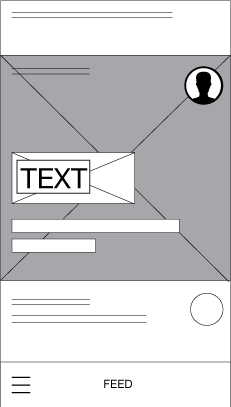
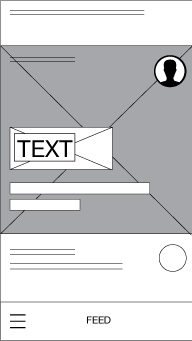
[Working] transition

diff --git a/app/views/workspace.html b/app/views/workspace.html
@@ -29,9 +29,7 @@
 		<div class="navbar navbar-inverse navbar-static-top" style="height:78px;">
 			<div class="container">
 				<div class="navbar-header">
-					<a href="../" class="navbar-brand">
-						<img src="/images/header_logo.png">
-					</a>
+					<a href="../" class="navbar-brand"> <img src="/images/header_logo.png"> </a>
 					<button class="navbar-toggle" type="button" data-toggle="collapse" data-target="#navbar-main">
 						<span class="icon-bar"></span>
 						<span class="icon-bar"></span>
@@ -63,7 +61,7 @@
 				</div>
 			</div>
 		</div>
-		
+
 		<div class="bs-docs-header">
 			<img src="/images/workspace/projectname_component1000px.png">
 		</div>
@@ -132,13 +130,13 @@
 									<div class="row timeline-activity-area" style="display:none;">
 										<div class="col-lg-5 timeline-activity-left centered">
 											left-activities
-										</div>	
+										</div>
 										<div class="col-lg-2 timeline-activity-center centered">
 											<div class="vertical-line">
 												<p>
-													line	
+													line
 												</p>
-												
+
 											</div>
 										</div>
 										<div class="col-lg-5 timeline-activity-right centered">
@@ -222,11 +220,11 @@
 			</div>
 			</div>
 			<div class="row row-image">
-			<a href="/screen">
 			<div class="div-centered image-wrapper centered">
-				<img src="<%= screen.imageList[0].url %>"/ class="" / accesskey="">
-			</div>
+			<a href="/screen">
+			<img src="<%= screen.imageList[0].url %>"/ class="" / accesskey="">
 			</a>
+			</div>
 			</div>
 			<div class="row centered">
 			<p class="screen-name">

diff --git a/public/javascripts/workspace.js b/public/javascripts/workspace.js
@@ -26,7 +26,7 @@ function imageChanged() {
 		screenId = $(this).closest('.screen').attr('screen-id');
 		
 		var screen = $('.screen[screen-id="' + screenId + '"]');
-		var img = $($($(screen).children()[1]).children()).children();
+		var img = $($($(screen).children()[1]).children()).children().children();
 		
 		
 		var storage = storageMap[window.workMode];
@@ -35,7 +35,6 @@ function imageChanged() {
 		});
 		
 		console.log(result);
-		
 		
 		$(img).attr('src', result.url);
 		
